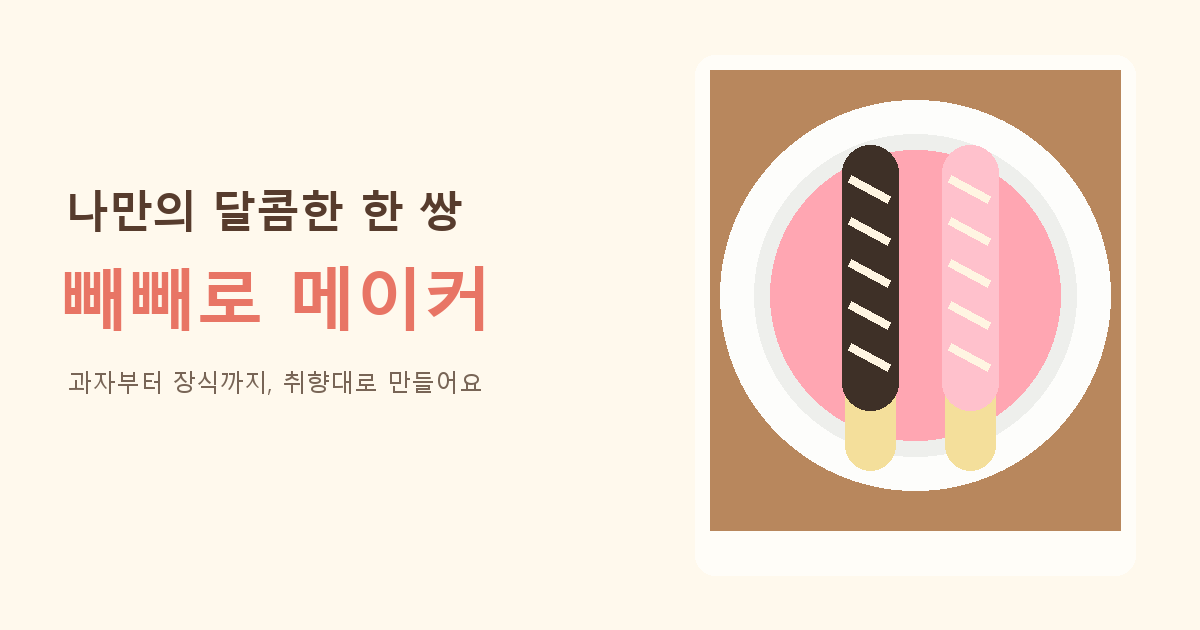
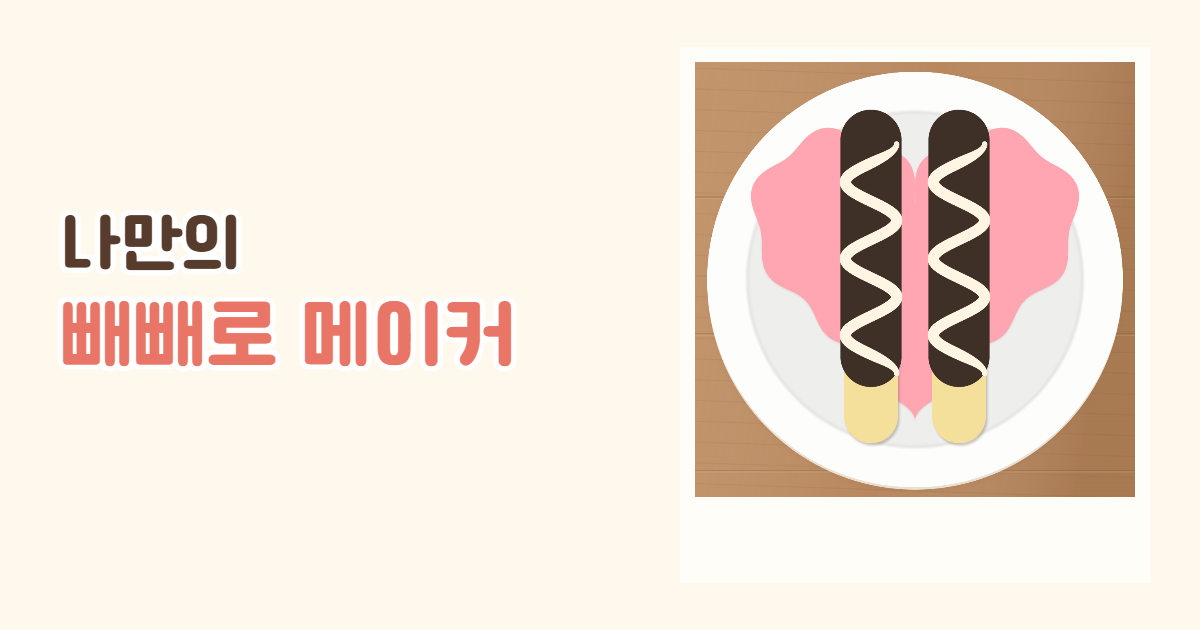
refactor: 메타 카드에 실제 완성 이미지와 써라운드 적용

Changed region(s): [[0.555, 0.0905, 0.9558, 0.8444], [0.0308, 0.3016, 0.4317, 0.6333]]

diff --git a/index.html b/index.html
@@ -2,15 +2,15 @@
 <html lang="ko"><head><meta charset="utf-8"><meta name="viewport" content="width=device-width, initial-scale=1"><meta name="theme-color" content="#fff9ef"><meta name="description" content="과자부터 포장까지, 나만의 귀여운 빼빼로를 만들고 이미지로 간직해요."><meta property="og:type" content="website">
 <meta property="og:locale" content="ko_KR">
 <meta property="og:site_name" content="빼빼로 메이커">
-<meta property="og:title" content="나만의 달콤한 빼빼로 만들기">
-<meta property="og:description" content="과자부터 초콜릿, 장식과 포장까지! 취향대로 만들고 완성 이미지를 공유해요.">
+<meta property="og:title" content="나만의 빼빼로 만들기">
+<meta property="og:description" content="나만의 빼빼로 만들기">
 <meta property="og:image" content="/public/og-image.png">
 <meta property="og:image:width" content="1200">
 <meta property="og:image:height" content="630">
 <meta property="og:image:alt" content="크림색 배경과 직접 꾸민 빼빼로 두 개">
 <meta name="twitter:card" content="summary_large_image">
 <meta name="twitter:title" content="빼빼로 메이커">
-<meta name="twitter:description" content="나만의 달콤한 빼빼로를 만들고 공유해요.">
+<meta name="twitter:description" content="나만의 빼빼로 만들기">
 <meta name="twitter:image" content="/public/og-image.png">
 <title>빼빼로 메이커</title><link rel="icon" type="image/svg+xml" href="public/favicon.svg"><style>
 @font-face {
